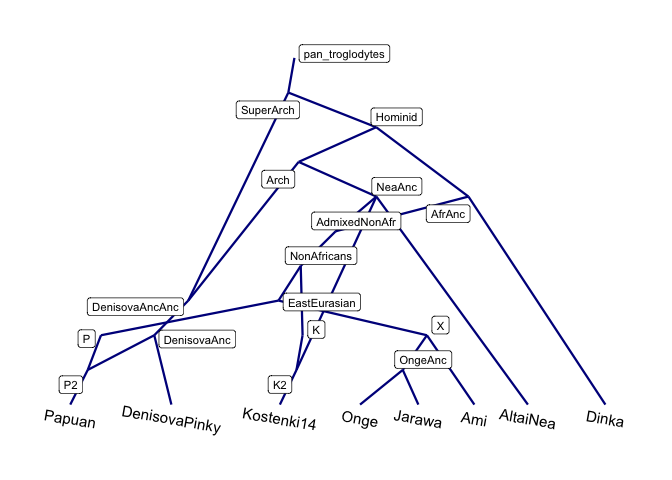
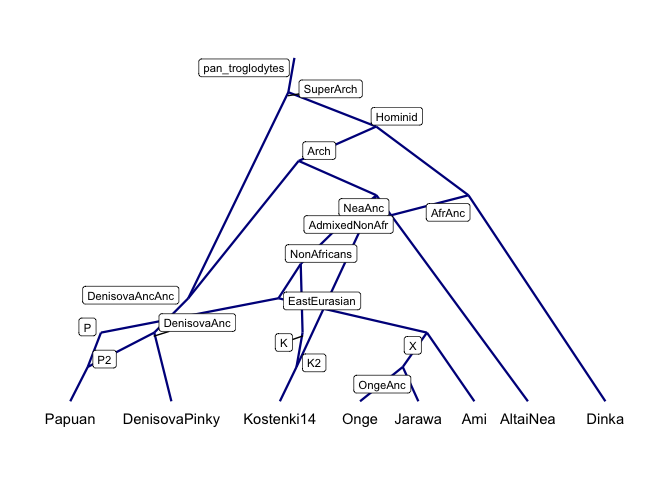
plotting functions, resolves #12 and #13

diff --git a/README.md b/README.md
@@ -7,7 +7,7 @@
 [![lifecycle](http://img.shields.io/badge/lifecycle-experimental-orange.svg)](https://www.tidyverse.org/lifecycle/#experimental)
 [![Project Status:
 Active](http://www.repostatus.org/badges/latest/active.svg)](http://www.repostatus.org/#active)
-[![Last-changedate](https://img.shields.io/badge/last%20change-2018--05--08-green.svg)](/commits/master)
+[![Last-changedate](https://img.shields.io/badge/last%20change-2018--05--09-green.svg)](/commits/master)
 [![packageversion](https://img.shields.io/badge/Package%20version-0.0.0.9000-orange.svg?style=flat-square)](commits/master)
 [![Travis build
 status](https://travis-ci.org/mailund/adrift.svg?branch=master)](https://travis-ci.org/mailund/adrift)
@@ -47,30 +47,23 @@ devtools::install_github("mailund/adrift")
 
 ``` r
 library(magrittr)
-library(ggplot2)
-library(ggraph)
-library(matchbox)
 library(adrift)
 #> Loading required package: Rcpp
 
-ag_layout <- function(graph, circular, ...) {
-    g$layout()
-    cbind(g$get_node_positions() %>% dplyr::select(x, y),
-          graph, circular = NA)
-}
-
-g <- parse_dot(readr::read_file("data-raw/Basic_OngeEA_wArch.dot"))
-graph <- tidygraph::tbl_graph(nodes = g$get_ggraph_nodes(),
-                              edges = g$get_ggraph_edges())
-graph %>%
-    ggraph(ag_layout) +
-    geom_edge_link(edge_width = 0.8, edge_colour = "darkblue") +
-    geom_node_text(aes(filter = is_leaf, label = label),
-                   size = 4, nudge_y = -0.4, angle = -10) +
-    geom_node_label(aes(filter = !is_leaf, label = label),
-                    size = 3, nudge_y = -0.1, repel = TRUE) +
-    coord_cartesian(clip = "off") +
-    theme_graph()
+graph <- parse_dot(readr::read_file("data-raw/Basic_OngeEA_wArch.dot"))
+graph %>% 
+    make_graph_plot() %>%
+    show_leaf_labels(nudge_y = -0.5) %>%
+    show_inner_node_labels()
 ```
 
 <img src="man/figures/README-unnamed-chunk-1-1.png" width="100%" />
+
+``` r
+graph <- parse_dot(readr::read_file("data-raw/BosGraph.dot"))
+graph %>% 
+    make_graph_plot(edge_colour = "red") %>%
+    show_leaf_labels(angle = -90, size = 2.8, nudge_y = -1, hjust = 0)
+```
+
+<img src="man/figures/README-unnamed-chunk-2-1.png" width="100%" />
